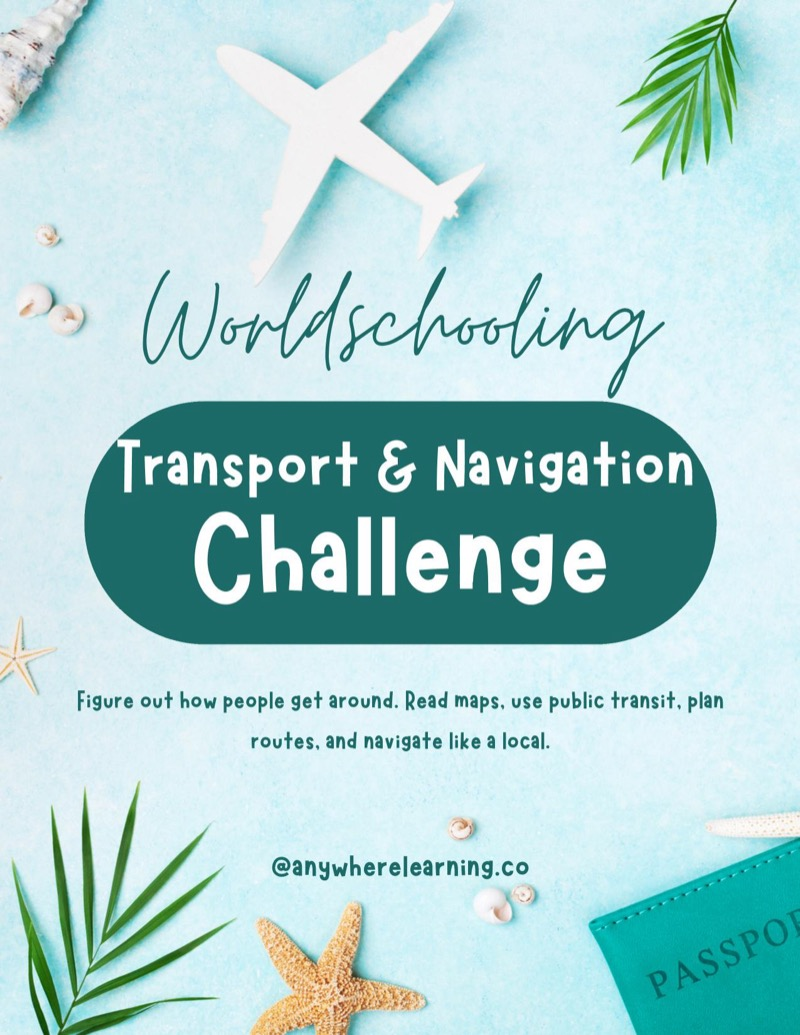
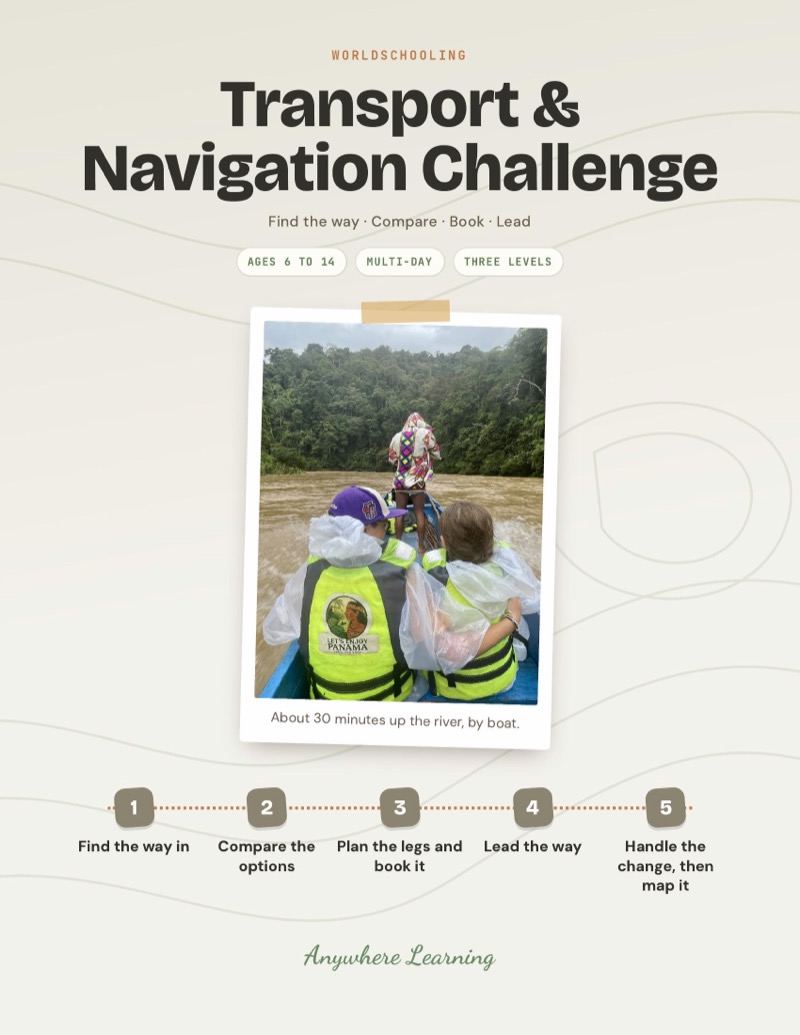
Transport & Navigation Challenge: redesigned guide, Embera boat trip story and photo; retire Street Explorer Map Maker into it

diff --git a/scripts/seed.ts b/scripts/seed.ts
@@ -127,8 +127,8 @@ async function seed() {
     { name: 'Local Language Mission', slug: 'local-language-mission', description: 'Your kid uses a language they barely speak to do one real job, like buying fruit, ordering a snack or asking the way. They pick the mission, learn just the words it needs, rehearse with you as the shopkeeper, then do it for real with a real person. Being understood is the goal, not getting it perfect. Works for any language, anywhere you travel.', shortDescription: 'Worldschooling language activity for kids ages 6-14: pick a real mission, learn the words, rehearse, then do it with a real person.', priceCents: 599, compareAtPriceCents: null, stripePriceId: 'price_1TS08gAkIBECpwGmAQk4fwgK', blobUrl: '', imageUrl: '/products/local-language-mission.jpg', category: 'worldschooling', isBundle: false, bundleProductIds: null, activityCount: null, ageRange: 'Ages 6–14', sortOrder: 203, active: true },
     { name: 'Nature & Geography Field Study', slug: 'nature-geography-field-study', description: 'Observe local plants, wildlife, climate, and geography wherever you travel.', shortDescription: 'Field study of nature and geography.', priceCents: 599, compareAtPriceCents: null, stripePriceId: 'price_1TS08hAkIBECpwGmAdyMW1AM', blobUrl: '', imageUrl: '/products/nature-geography-field-study.jpg', category: 'worldschooling', isBundle: false, bundleProductIds: null, activityCount: null, ageRange: 'Ages 6–14', sortOrder: 204, active: true },
     { name: 'People & Stories Interview Project', slug: 'people-stories-interview', description: 'Interview locals and travellers, listen carefully, and record their stories.', shortDescription: 'Interview people and collect stories.', priceCents: 599, compareAtPriceCents: null, stripePriceId: 'price_1TS08iAkIBECpwGmwqkBXDHr', blobUrl: '', imageUrl: '/products/people-stories-interview.jpg', category: 'worldschooling', isBundle: false, bundleProductIds: null, activityCount: null, ageRange: 'Ages 6–14', sortOrder: 205, active: false },
-    { name: 'Street Explorer Map Maker', slug: 'street-explorer-map-maker', description: 'Walk new neighbourhoods and create hand-drawn maps with landmarks and stories.', shortDescription: 'Hand-drawn maps of new neighbourhoods.', priceCents: 599, compareAtPriceCents: null, stripePriceId: 'price_1TS08iAkIBECpwGmS2qJguOh', blobUrl: '', imageUrl: '/products/street-explorer-map-maker.jpg', category: 'worldschooling', isBundle: false, bundleProductIds: null, activityCount: null, ageRange: 'Ages 6–14', sortOrder: 206, active: true },
-    { name: 'Transport & Navigation Challenge', slug: 'transport-navigation-challenge', description: 'Read maps, decode local transport, and plan real routes in unfamiliar places.', shortDescription: 'Navigate transport in new places.', priceCents: 599, compareAtPriceCents: null, stripePriceId: 'price_1TS08jAkIBECpwGmI2C7uWqZ', blobUrl: '', imageUrl: '/products/transport-navigation-challenge.jpg', category: 'worldschooling', isBundle: false, bundleProductIds: null, activityCount: null, ageRange: 'Ages 6–14', sortOrder: 207, active: true },
+    { name: 'Street Explorer Map Maker', slug: 'street-explorer-map-maker', description: 'Walk new neighbourhoods and create hand-drawn maps with landmarks and stories.', shortDescription: 'Hand-drawn maps of new neighbourhoods.', priceCents: 599, compareAtPriceCents: null, stripePriceId: 'price_1TS08iAkIBECpwGmS2qJguOh', blobUrl: '', imageUrl: '/products/street-explorer-map-maker.jpg', category: 'worldschooling', isBundle: false, bundleProductIds: null, activityCount: null, ageRange: 'Ages 6–14', sortOrder: 206, active: false },
+    { name: 'Transport & Navigation Challenge', slug: 'transport-navigation-challenge', description: 'Your kid works out how to get the family to a real place you want to reach while you travel. They find out how people get there, compare the options and the prices, plan each leg and help book it, then lead the family there on the day and handle whatever changes. Back where you are staying, they draw the whole route from memory.', shortDescription: 'Worldschooling navigation challenge for kids ages 6-14: find the way in, compare and book the trip, then lead the family there.', priceCents: 599, compareAtPriceCents: null, stripePriceId: 'price_1TS08jAkIBECpwGmI2C7uWqZ', blobUrl: '', imageUrl: '/products/transport-navigation-challenge.jpg', category: 'worldschooling', isBundle: false, bundleProductIds: null, activityCount: null, ageRange: 'Ages 6–14', sortOrder: 207, active: true },
     { name: 'Travel Reflection & Postcards', slug: 'travel-reflection-postcards', description: 'Capture travel memories through hand-made postcards and reflective writing.', shortDescription: 'Hand-made postcards and travel reflection.', priceCents: 599, compareAtPriceCents: null, stripePriceId: 'price_1TS08jAkIBECpwGmq10DEOLG', blobUrl: '', imageUrl: '/products/travel-reflection-postcards.jpg', category: 'worldschooling', isBundle: false, bundleProductIds: null, activityCount: null, ageRange: 'Ages 6–14', sortOrder: 208, active: false },
     { name: 'World Food Detective', slug: 'world-food-detective', description: 'Investigate local cuisine: identify ingredients, trace origins, and document tastes.', shortDescription: 'Investigate world cuisine.', priceCents: 599, compareAtPriceCents: null, stripePriceId: 'price_1TS08kAkIBECpwGmQeQ2dPds', blobUrl: '', imageUrl: '/products/world-food-detective.jpg', category: 'worldschooling', isBundle: false, bundleProductIds: null, activityCount: null, ageRange: 'Ages 6–14', sortOrder: 209, active: true },
 

diff --git a/lib/product-descriptions.ts b/lib/product-descriptions.ts
@@ -2440,28 +2440,27 @@ export const productDescriptions: Record<string, ProductDescription> = {
   },
   'transport-navigation-challenge': {
     opening:
-      'Navigate a new place using local transport. Kids read maps, decode public transport systems, plan routes, and practise getting from A to B in unfamiliar territory. Independence, problem-solving, and real-world geography skills built through real journeys.',
+      'Your kid works out how to get the family to a real place you want to reach while you travel. They find out how people get there, compare the options and the prices, plan each leg and help book it, then lead the family there on the day and handle whatever changes. Back where you are staying, they draw the whole route from memory.',
     whatsIncluded: [
-      'Public transport decoding activities',
-      'Map reading and route planning challenges',
-      'Real navigation missions with progressive difficulty',
-      'Time and cost calculations for journeys',
-      'Reflection on independence and problem-solving',
+      'Five steps, from finding the way in to leading the family there',
+      'Ways to get there, Compare it, Read the route and When plans change cards',
+      'A worked example: a river village reached only by boat',
+      'My route log, and a map of the trip drawn from memory',
+      'Three levels per step, for any trip, anywhere',
     ],
-    skillTags: ['Navigation', 'Geography', 'Problem-Solving', 'Independence', 'Maths'],
+    skillTags: ['Navigation', 'Geography', 'Planning', 'Problem-Solving', 'Math'],
     insideTheLearning: {
       lead:
-        'Your child navigates a real transport system, working out routes, fares and timings themselves. Missions get harder as they go. Reading a schedule under time pressure and deciding to ask a stranger for help is independence you cannot teach from a chair.',
+        'Your kid works out how to reach a real place, compares the ways in and the prices, books it and leads the family there. When something changes on the way, the call is theirs. Holding the plan with the whole family waiting on you is independence you cannot teach from a chair.',
       skills: [
-        { skill: 'Problem-Solving', where: 'Working out a route in an unfamiliar system, and troubleshooting when it goes wrong' },
-        { skill: 'Math', where: 'Reading costs, calculating journey times and understanding the distances' },
-        { skill: 'Observation', where: 'Reading signs, schedules and routes, and noticing how the system actually works' },
-        { skill: 'Geography', where: 'Seeing how transport connects places and shapes how a city works' },
-        { skill: 'Critical Thinking', where: 'Comparing systems and asking why one works better than another' },
-        { skill: 'Self-Direction', where: 'Navigating it themselves, making the calls, asking when they need to' },
+        { skill: 'Geography', where: 'Reading maps and seeing why a place is reached the way it is' },
+        { skill: 'Math', where: 'Time, distance and what the trip costs for the whole family' },
+        { skill: 'Reading', where: 'Timetables, booking confirmations and signs' },
+        { skill: 'Problem-Solving', where: 'Deciding what to do when the rain comes or the bus is late' },
+        { skill: 'Self-Direction', where: 'Leading every leg, and asking for help when they need it' },
       ],
     },
-    format: 'Activity Guide',
+    format: 'Project Guide',
   },
   'travel-reflection-postcards': {
     opening:

diff --git a/lib/skills.ts b/lib/skills.ts
@@ -114,7 +114,7 @@ export const productSkills: Record<string, ProductSkills> = {
   "theme-park": { canonical: ["Maths","Design","Engineering","Planning","Art"], families: ["communication-and-writing","creativity-and-making","critical-thinking-and-reasoning","entrepreneurship-and-money","nature-and-science"] },
   "time-energy-planner": { canonical: ["Self-Awareness","Planning","Time Management","Self-Regulation","Life Skills"], families: ["critical-thinking-and-reasoning","empathy-and-people","planning-and-self-management"] },
   "trail-guide-creator": { canonical: ["Descriptive Writing","Observation","Nature","Geography","Design"], families: ["communication-and-writing","critical-thinking-and-reasoning","empathy-and-people","nature-and-science","planning-and-self-management"] },
-  "transport-navigation-challenge": { canonical: ["Critical Thinking","Geography","Math","Observation","Problem-Solving","Self-Direction"], families: ["critical-thinking-and-reasoning","math-and-money","nature-and-science","planning-and-self-management","world-and-geography"] },
+  "transport-navigation-challenge": { canonical: ["Navigation","Geography","Planning","Problem-Solving","Math"], families: ["critical-thinking-and-reasoning","math-and-money","nature-and-science","planning-and-self-management","world-and-geography"] },
   "travel-day": { canonical: ["Planning","Time Management","Budgeting","Problem-Solving","Flexibility"], families: ["communication-and-writing","critical-thinking-and-reasoning","planning-and-self-management"] },
   "travel-reflection-postcards": { canonical: ["Communication","Observation","Reflection","Writing"], families: ["communication-and-writing","critical-thinking-and-reasoning","nature-and-science"] },
   "what-if-scenario-lab": { canonical: ["Critical Thinking","Planning","Curiosity","Trade-Offs","Communication"], families: ["communication-and-writing","creativity-and-making","critical-thinking-and-reasoning","planning-and-self-management"] },

diff --git a/lib/fallback-products.ts b/lib/fallback-products.ts
@@ -2162,7 +2162,7 @@ export const fallbackProducts: FallbackProduct[] = [
     activityCount: null,
     ageRange: "Ages 6–14",
     sortOrder: 206,
-    active: true,
+    active: false, // retired Nov 2026: merged into transport-navigation-challenge
     createdAt: new Date("2026-04-30"),
   },
   {
@@ -2170,15 +2170,15 @@ export const fallbackProducts: FallbackProduct[] = [
     name: "Transport & Navigation Challenge",
     slug: "transport-navigation-challenge",
     description:
-      "Navigate a new place using local transport. Kids read maps, decode public transport systems, plan routes, and practise getting from A to B in unfamiliar territory. Independence, problem-solving, and real-world geography skills built through real journeys.",
+      "Your kid works out how to get the family to a real place you want to reach while you travel. They find out how people get there, compare the options and the prices, plan each leg and help book it, then lead the family there on the day and handle whatever changes. Back where you are staying, they draw the whole route from memory.",
     shortDescription:
-      "Worldschooling navigation challenge for kids ages 6-14: read maps, decode transport, and plan real routes in new places.",
+      "Worldschooling navigation challenge for kids ages 6-14: find the way in, compare and book the trip, then lead the family there.",
     priceCents: 599,
     compareAtPriceCents: null,
     stripePriceId: "price_1TS08jAkIBECpwGmI2C7uWqZ",
     blobUrl: "",
     imageUrl: "/products/transport-navigation-challenge.jpg",
-    previewFile: "Preview Worldschooling - Transport & Navigation Challenge.pdf",
+    previewFile: "Preview Worldschooling - Transport & Navigation Challenge v3.pdf",
     category: "worldschooling",
     isBundle: false,
     bundleProductIds: null,

diff --git a/scripts/create-stripe-products.ts b/scripts/create-stripe-products.ts
@@ -112,7 +112,7 @@ const catalog = [
   { slug: 'nature-geography-field-study', name: 'Nature & Geography Field Study', priceCents: 599, description: 'Observe local plants, wildlife, climate, and geography while travelling.' },
   { slug: 'people-stories-interview', name: 'People & Stories Interview Project', priceCents: 599, description: 'Interview locals and travellers, listen carefully, and record their stories.' },
   { slug: 'street-explorer-map-maker', name: 'Street Explorer Map Maker', priceCents: 599, description: 'Walk new neighbourhoods and create hand-drawn maps with landmarks.' },
-  { slug: 'transport-navigation-challenge', name: 'Transport & Navigation Challenge', priceCents: 599, description: 'Read maps, decode local transport, and plan real routes in unfamiliar places.' },
+  { slug: 'transport-navigation-challenge', name: 'Transport & Navigation Challenge', priceCents: 599, description: 'Worldschooling navigation challenge for kids ages 6-14: find the way in, compare and book the trip, then lead the family there.' },
   { slug: 'travel-reflection-postcards', name: 'Travel Reflection & Postcards', priceCents: 599, description: 'Capture travel memories through hand-made postcards and reflective writing.' },
   { slug: 'world-food-detective', name: 'World Food Detective', priceCents: 599, description: 'Investigate local cuisine: identify ingredients, trace origins, and document tastes.' },
   // ─── Emotional & Social Skills singles ($5.99) ───

diff --git a/lib/activity-blob-urls.ts b/lib/activity-blob-urls.ts
@@ -130,7 +130,7 @@ export const ACTIVITY_BLOB_URLS: Record<string, string> = {
   "time-energy-planner": "https://xkj3tzlgu6ylgllk.public.blob.vercel-storage.com/Planning%20%26%20Problem-Solving%20Time%20%26%20Energy%20Planner%20v8.pdf",
   "trade-it-up": "https://xkj3tzlgu6ylgllk.public.blob.vercel-storage.com/Entrepreneurship%20-%20Trade%20It%20Up%20v7.pdf",
   "trail-guide-creator": "https://xkj3tzlgu6ylgllk.public.blob.vercel-storage.com/Communication%20%26%20Writing%20-%20Trail%20Guide%20Creator%20v6.pdf",
-  "transport-navigation-challenge": "https://xkj3tzlgu6ylgllk.public.blob.vercel-storage.com/Worldschooling%20-%20Transport%20%26%20Navigation%20Challenge%20v2.pdf",
+  "transport-navigation-challenge": "https://xkj3tzlgu6ylgllk.public.blob.vercel-storage.com/Worldschooling%20-%20Transport%20%26%20Navigation%20Challenge%20v3.pdf",
   "travel-day": "https://xkj3tzlgu6ylgllk.public.blob.vercel-storage.com/Planning%20%26%20Problem-Solving%20Travel%20Day%20Itinerary%20Challenge%20v5.pdf",
   "travel-reflection-postcards": "https://xkj3tzlgu6ylgllk.public.blob.vercel-storage.com/Worldschooling%20-%20Travel%20Reflection%20%26%20Postcards%20v2.pdf",
   "two-minute-story": "https://xkj3tzlgu6ylgllk.public.blob.vercel-storage.com/Communication%20%26%20Writing%20-%20The%20Two%20Minute%20Story%20v6.pdf",

diff --git a/lib/roadmap.ts b/lib/roadmap.ts
@@ -398,7 +398,7 @@ const SUPPLEMENTAL_TERRITORY_TAGS: Record<string, string[]> = {
   'problem-solver': ['critical-thinking', 'creativity', 'self-management'],
   'farmers-market-challenge': ['math', 'life-skills'],
   'nature-geography-field-study': ['physical', 'critical-thinking'],
-  'street-explorer-map-maker': ['creativity', 'critical-thinking', 'physical'],
+  'transport-navigation-challenge': ['critical-thinking', 'math', 'self-management'],
   'grow-it-eat-it': ['self-management', 'critical-thinking', 'life-skills'],
   'kitchen-science-lab': ['critical-thinking', 'math'],
   'probability-lab': ['math', 'critical-thinking'],

diff --git a/next.config.ts b/next.config.ts
@@ -122,6 +122,7 @@ const nextConfig: NextConfig = {
       { source: "/shop/people-stories-interview", destination: "/shop/neighbourhood-interview", permanent: true },
       { source: "/shop/everyday-life-comparison", destination: "/shop?track=worldschooling#full-library", permanent: true },
       { source: "/shop/travel-reflection-postcards", destination: "/shop?track=worldschooling#full-library", permanent: true },
+      { source: "/shop/street-explorer-map-maker", destination: "/shop/transport-navigation-challenge", permanent: true },
 
       // Retired seasonal packs (debundled): send to the Outdoor Learning listing.
       {
